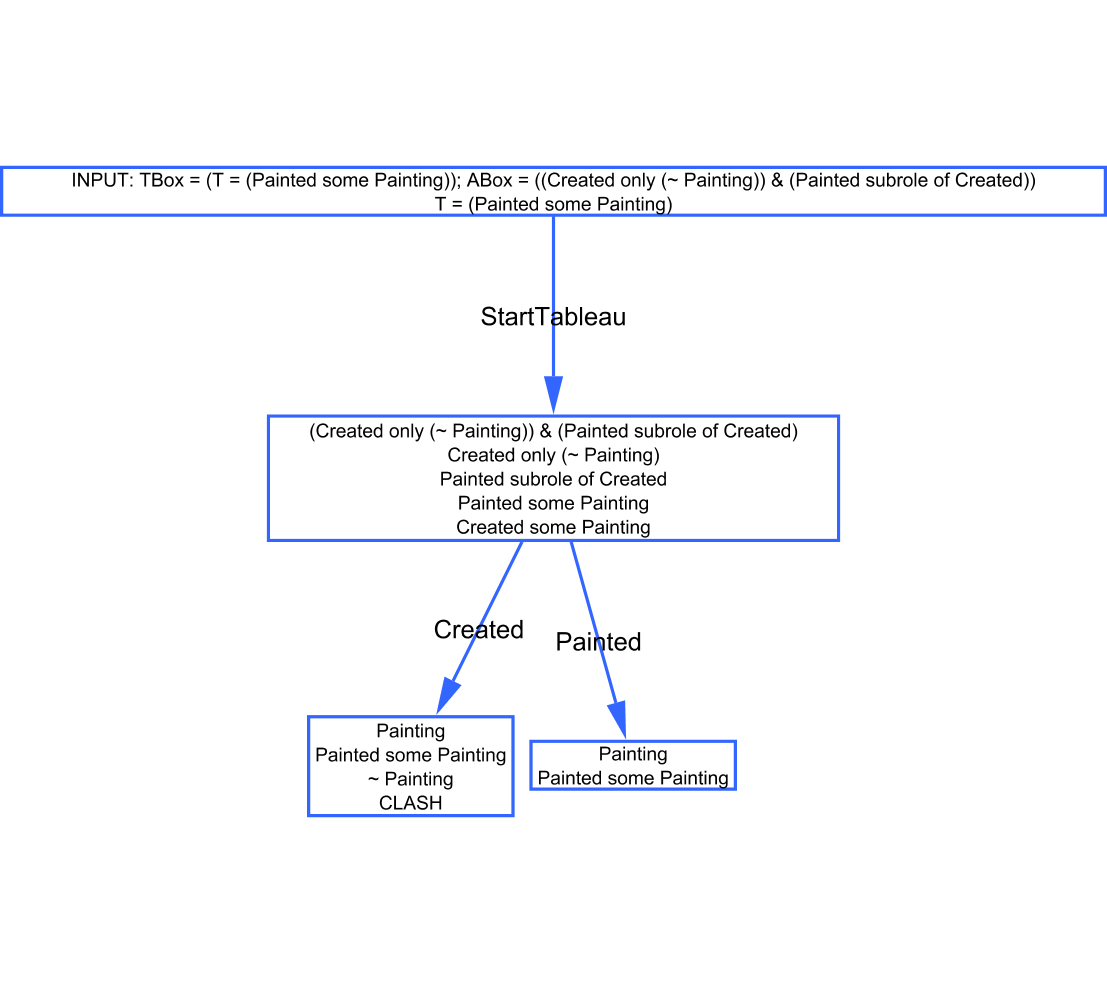
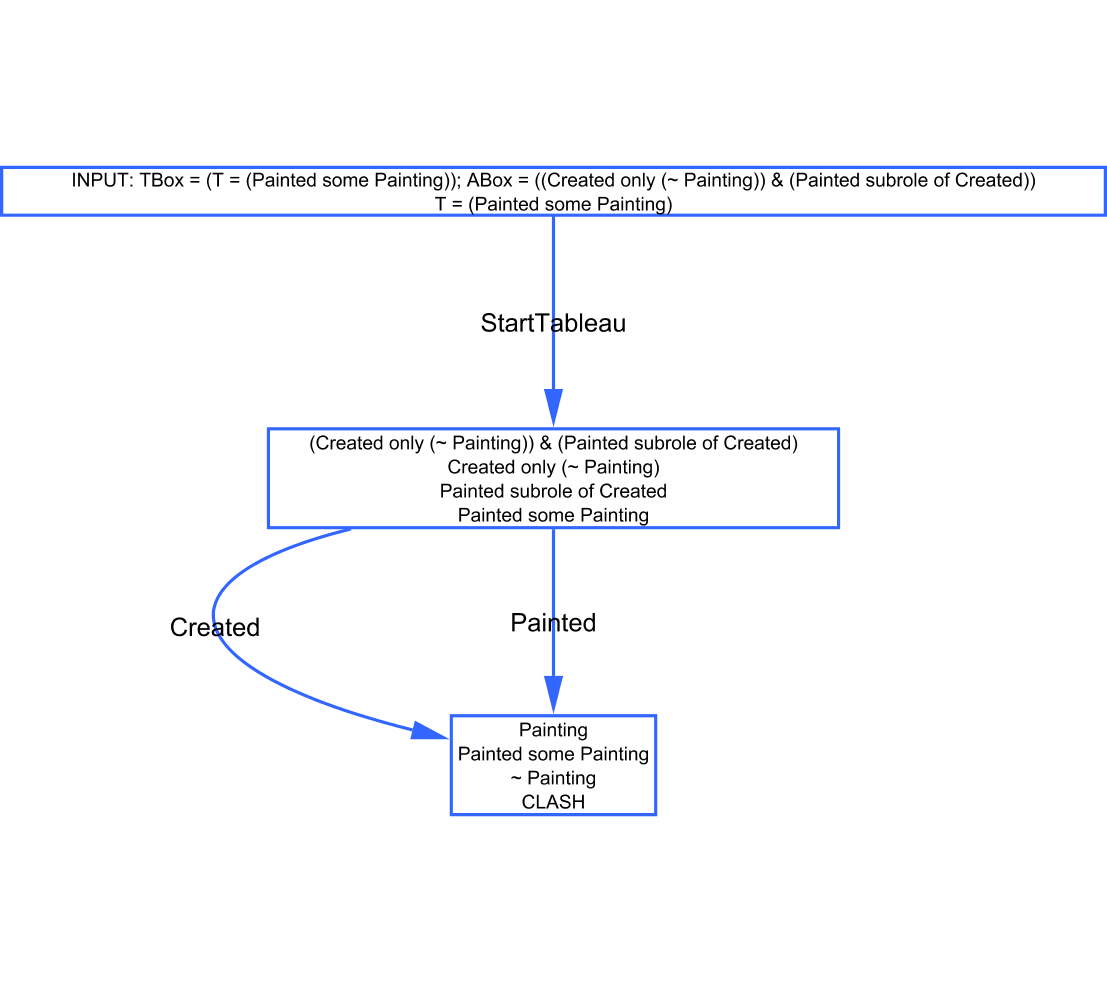
subroles veranderd, ook in report

diff --git a/SudokuCSP/latex/report.tex b/SudokuCSP/latex/report.tex
@@ -285,7 +285,23 @@ LoTREC display & $C subrole of D$ \\
 \end{center}
 \end{table}
 
-The application of role hierarchies can be shown with the example formula from the assignment:
+This operator indicates that $C$ is a subrole of $D$. In other words, conditions that apply to $D$ also apply to all $C$. We use the following rules to process subroles:
+
+\begin{table}[h]
+\begin{center}
+\begin{tabular}{l l}
+\texttt{SubRoleSome} & \\
+\hline
+Conditions: & \texttt{hasElement node subrole \_sub \_super} \\
+ & \texttt{isAncestor node child} \\
+ & \texttt{isLinked node child \_sub} \\
+Actions: & \texttt{link node child \_super} \\
+\hline
+\end{tabular}
+\end{center}
+\end{table}
+
+This rule says: if two worlds are linked with a subrole link, also add the superrole link. The application of role hierarchies can be shown with the example formula from the assignment:
 
 \begin{table}[h]
 \begin{center}
@@ -300,7 +316,7 @@ LoTREC input & \texttt{input tbox some Painted Painting} \\
 \end{center}
 \end{table}
 
-For this formula, the strategy with subroles creates a different premodel than the strategy without subroles. The premodel with subroles creates a clash while the premodel without subroles doesnt. The premodels are shown in Figure \ref{fig:zondersubrole} and \ref{fig:metsubrole}.
+For this formula, the strategy with subroles creates a different premodel than the strategy without subroles. The premodel with subroles creates a clash while the premodel without subroles does not. The premodels are shown in Figure \ref{fig:zondersubrole} and \ref{fig:metsubrole}.
 
 
 
@@ -320,11 +336,7 @@ For this formula, the strategy with subroles creates a different premodel than t
 \end{center}
 \end{figure}
 
-
-
-\textcolor{red}{$\rightarrow$ references? wat? $\leftarrow$}
-
-\bibliographystyle{plainnat}
-\bibliography{ref}
+%\bibliographystyle{plainnat}
+%\bibliography{ref}
 
 \end{document}
